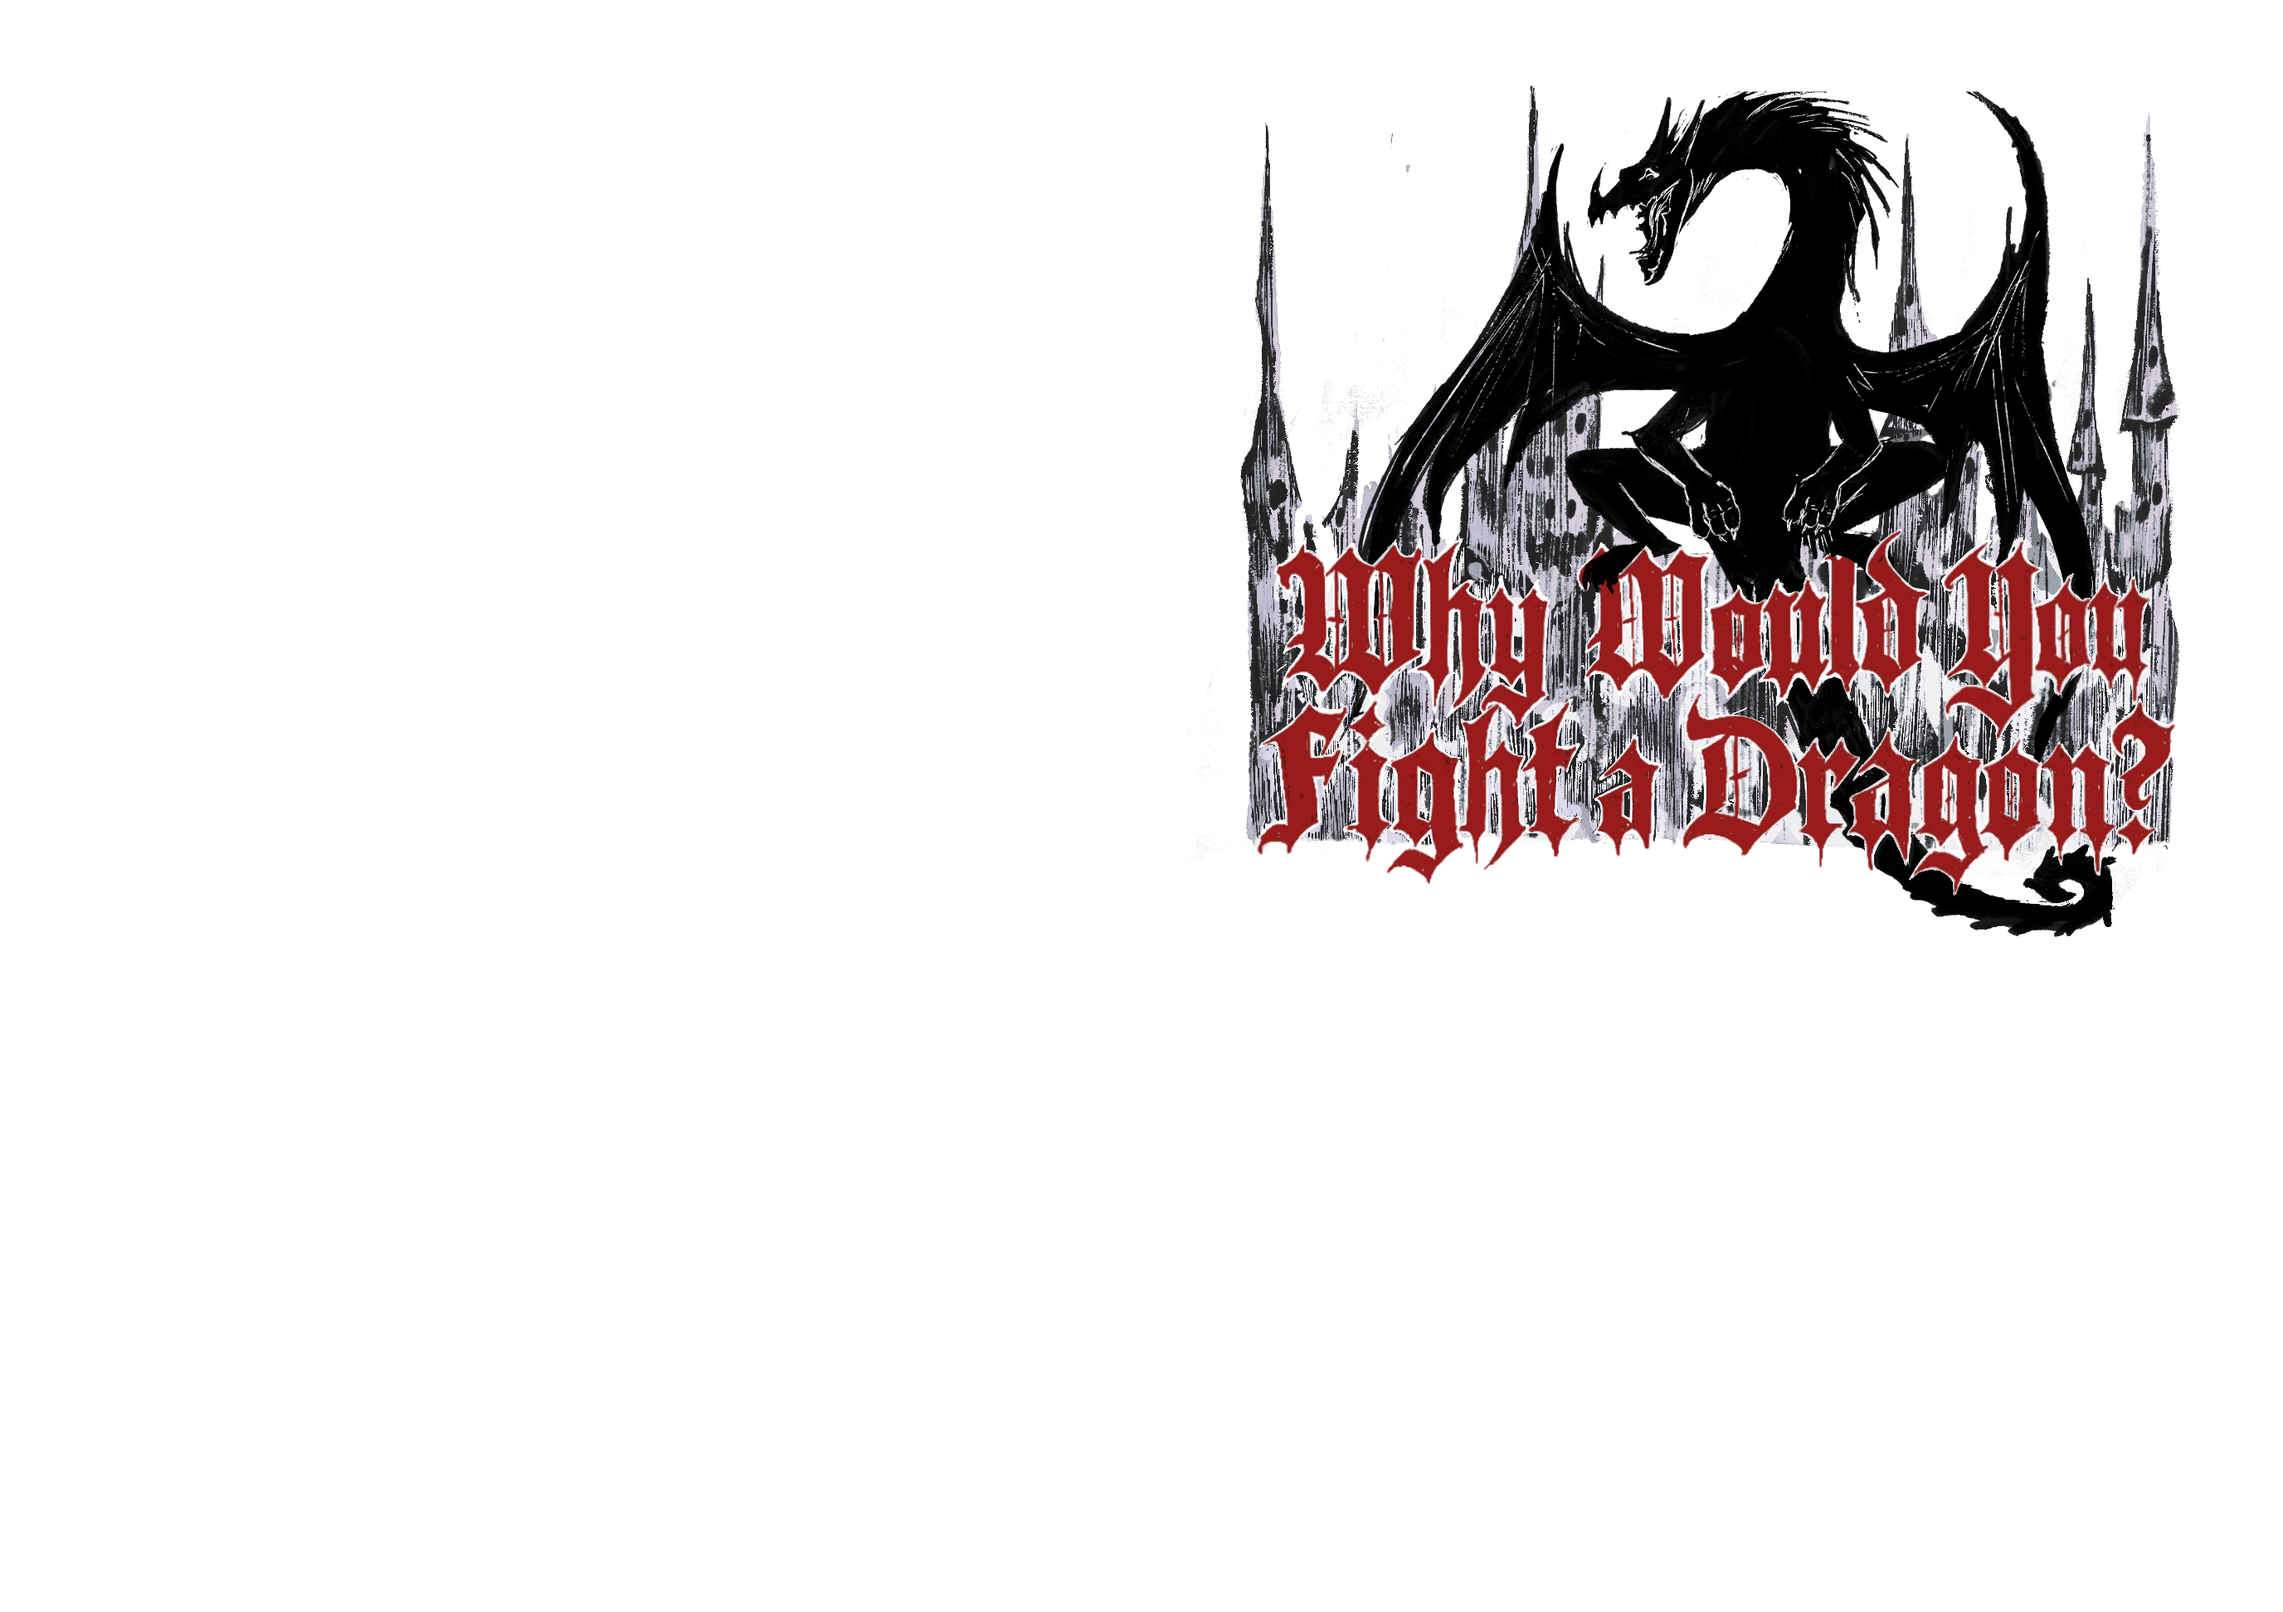
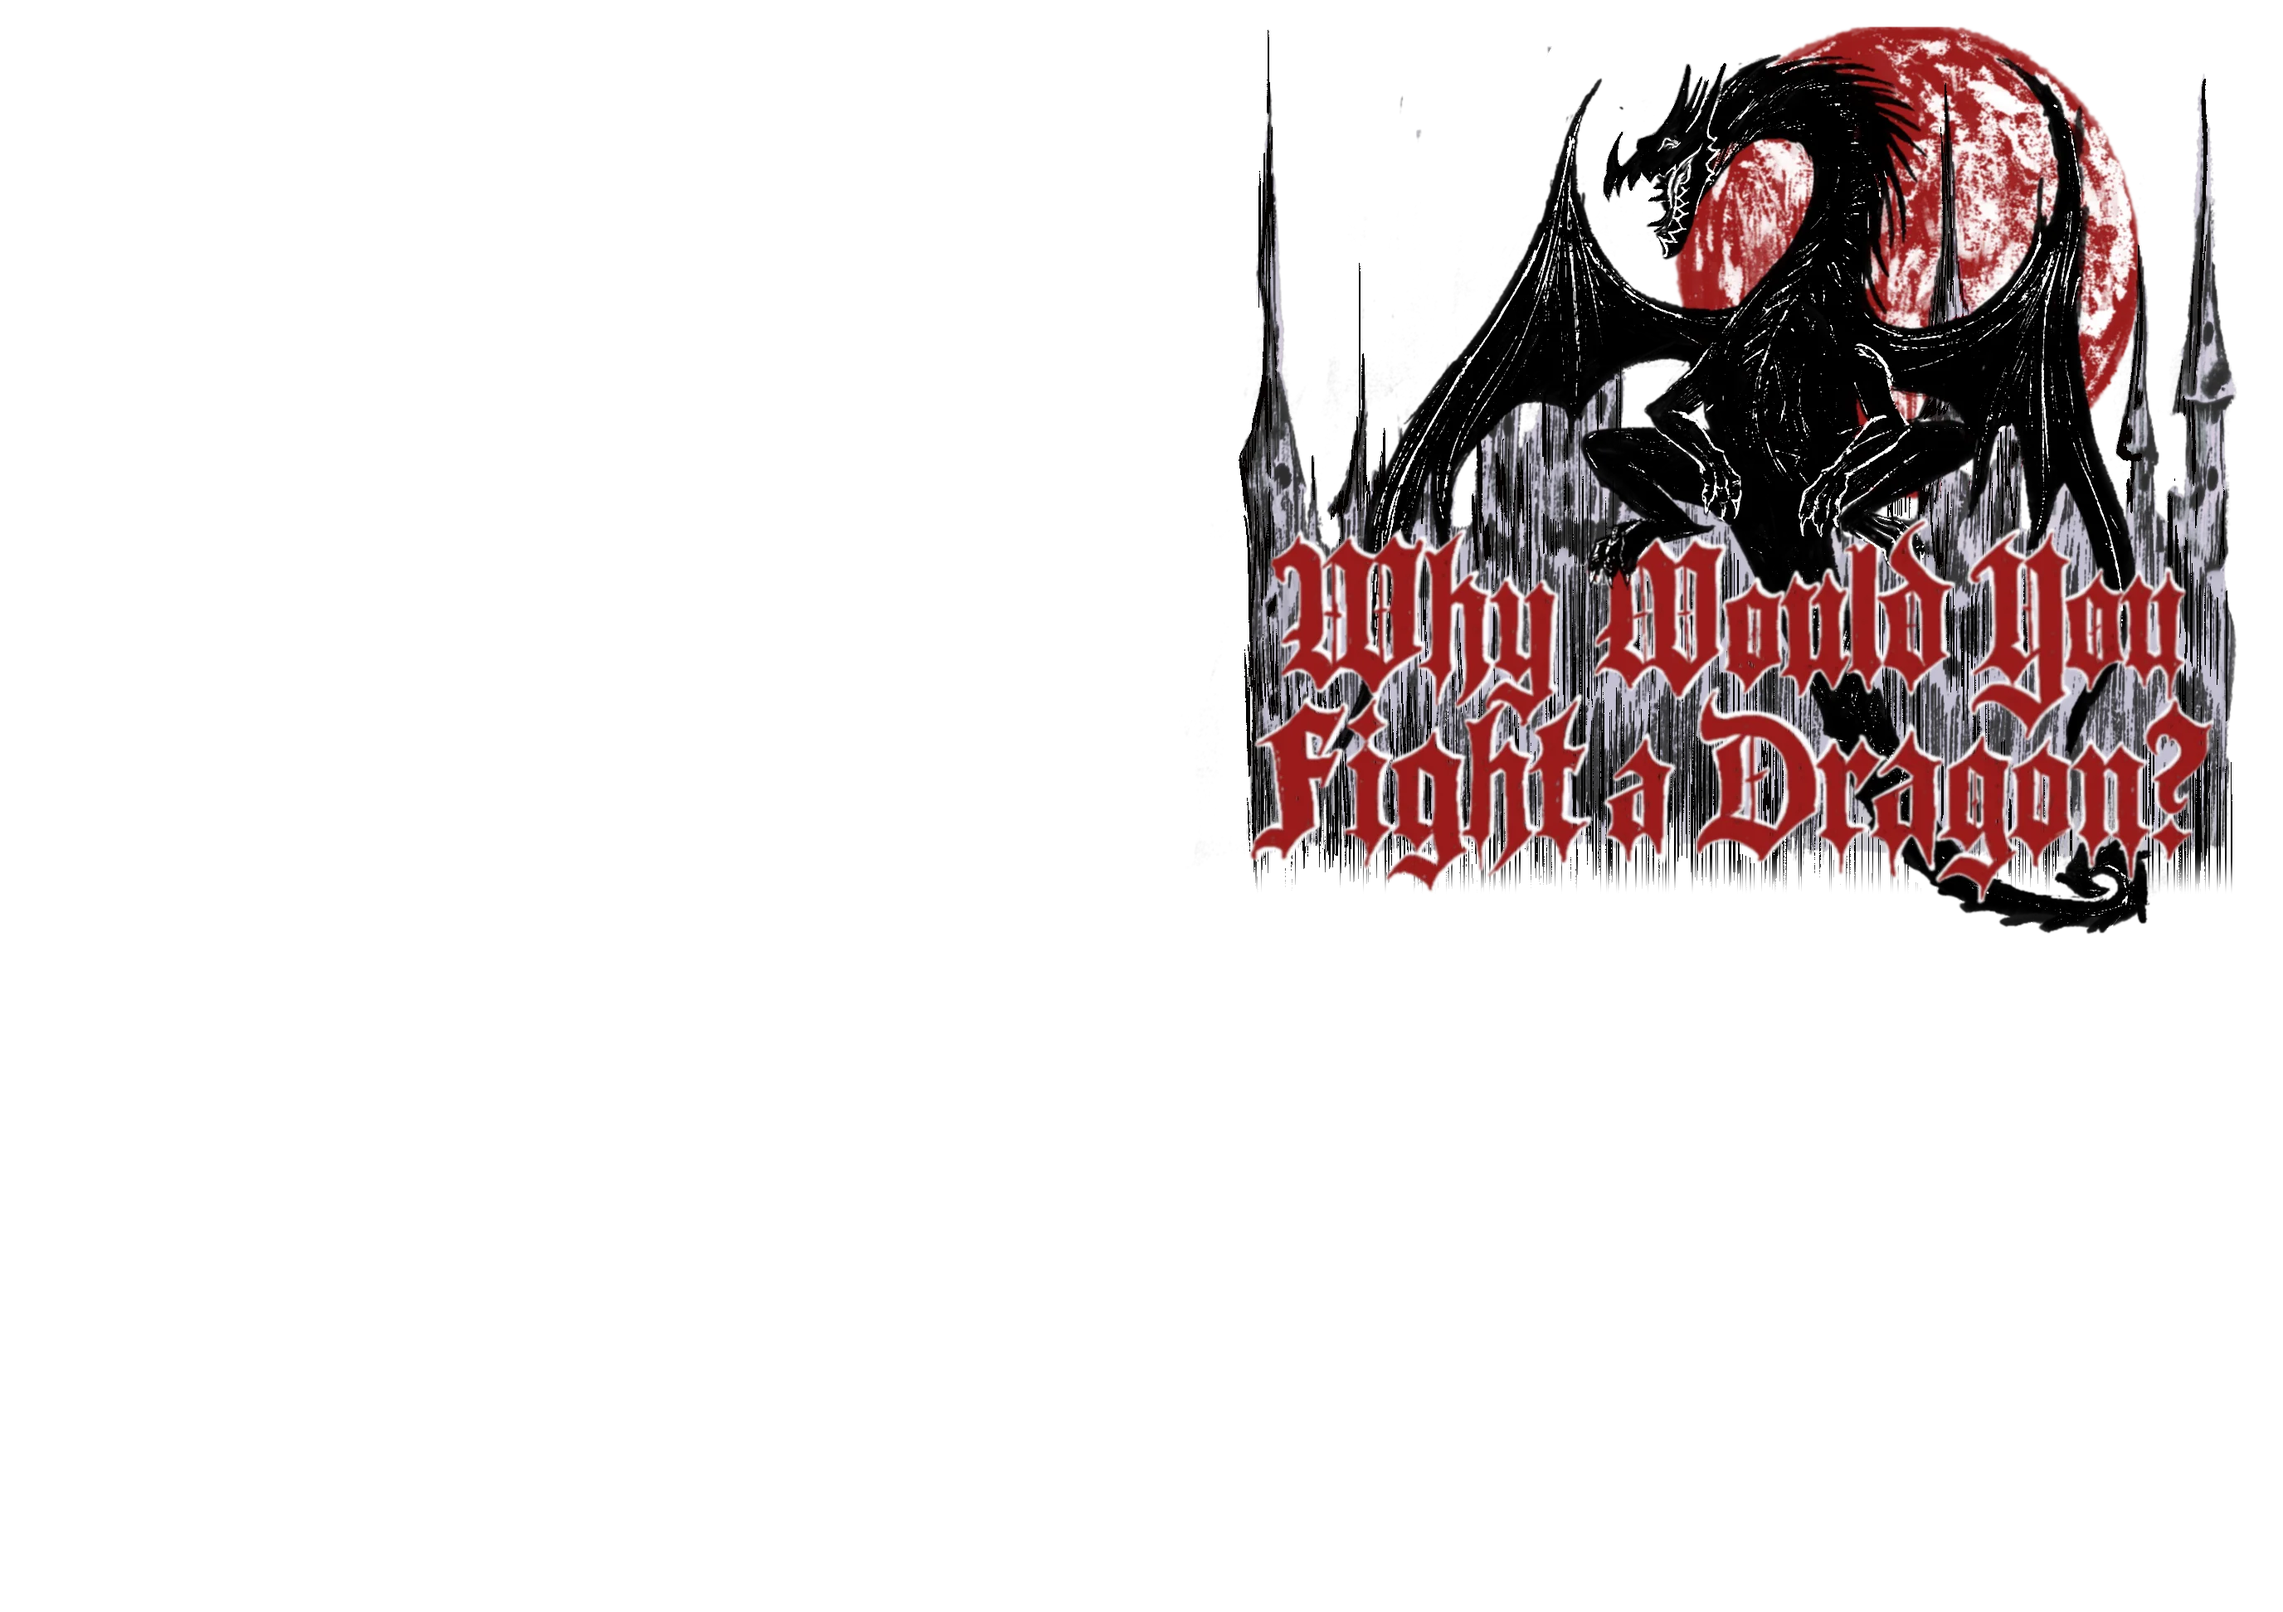
Update Why Dragon cover art with Rouzeris's new illustration (#87)
* Add itch.io page plan for Why Dragon

* Set community copies to 73 with contact fallback

* Fill community copies contact details

* Update itch plan with applied pricing, rewards, theme

* Plan itch hero; record dark theme and green links

* Fix reward wording in plan

* Record darker itch button color in plan

* Record itch link and button colors in plan

* Record itch button color in plan

* Record cover red buttons in plan

* Update Why Dragon cover art with new illustration

* Record itch banner in plan

* Record full-width itch hero in plan

* Pin Bun in CI to 1.3.14

Changed region(s): [[0.5312, 0.0, 1.0, 0.5864]]

diff --git a/src/pages/books/why-dragon/.agents/PLAN.md b/src/pages/books/why-dragon/.agents/PLAN.md
@@ -1,0 +1,83 @@
+# itch.io page plan — Why Would You Fight a Dragon?
+
+Page: https://hasparus.itch.io/why-dragon
+
+## Now
+
+- Default theme: black bg, plain text title, default red button.
+- One cover image in the screenshot column; column empty below it.
+- Name-your-own-price.
+- No devlog, no community, no pull quotes.
+
+## References
+
+| Page | Steal |
+|---|---|
+| [2400](https://jasontocci.itch.io/2400) | Banner with title baked in, hide text title. Tiled paper texture bg. Full-height screenshot column (every module cover). $6+ with **community copies** reward box. Devlog + community. |
+| [Mausritter](https://losing-games.itch.io/mausritter) | Closest match: blackletter logo as banner on plain bg. Bullet list of features with bold lead-ins. Screenshots = photos of the printed book, spreads, filled character sheet. |
+| [Wanderhome](https://possumcreekgames.itch.io/wanderhome) | Ornamental logo banner, one-color palette (cream bg, green text/links/button). Awards + pull quote from a known designer at the top. |
+| [FIST](https://claymorerpgs.itch.io/fist) | Dark theme done right: stark b/w banner art, monochrome white button, italic blockquote intro setting the mood. Video in screenshot column. |
+
+Anti-references: [Honey Heist](https://gshowitt.itch.io/honey-heist), [Cairn](https://yochaigal.itch.io/cairn), [Lancer](https://massif-press.itch.io/corebook-pdf) — default layout with a bg color swap; reads generic even for famous games.
+
+## Plan
+
+### 1. Pricing
+
+- [x] Edit game → Pricing → Paid, **$5.00**, "Let people pay more".
+- [x] More → Rewards → "Community Copies", $0, quantity **47**.
+- [x] Reward text: "Not sure you can afford it? Grab a free copy. All gone? Email me at piotr@zagrajmy.net or ping me on Discord (@hasparus) and I'll send you one."
+- [ ] Before publishing: verify piotr@zagrajmy.net receives mail from an outside address (Gmail) and replies don't land in spam. Domain has OVH MX + `p=none` DMARC but **no SPF record** — add `v=spf1 include:mx.ovh.com ~all` if replies go from OVH.
+
+### 2. Theme
+
+- [x] BG + BG2 `#300703`, text `#F2EBE7`, IM Fell English.
+- [x] Links `#0fcea0`. Buttons `#B3232B` cover red.
+
+Fonts: blackletter-ish header only if itch list has one; body serif (current is fine).
+
+### 3. Hero
+
+itch caps the banner at the 960px column, so the full-width hero is two layers:
+
+- [x] Banner 1920×1200 (shown at 960×600): moon, spires, dragon perched on the title, Rouzeris's original layout.
+- [x] Background 2560×600, no-repeat, centred: spires tiled (mirrored) out to both edges, wash strengthened. BG2 alpha 0 so it shows behind the column.
+- [ ] Cover image: pick C1/C2/C3, upload via Edit game → Cover image (630×500).
+- [ ] Screenshot column still shows the old cover art; replace with spreads/character sheet.
+
+### 4. Screenshot column
+
+Fill it top to bottom:
+
+- [ ] Cover
+- [ ] 2–3 interior spreads (from `why-dragon-1-0.pdf`)
+- [ ] Character sheet
+- [ ] Pyre art (`pyre-1..4.webp`), `dragon.webp`, `dragonsword.png`
+- [ ] Hero's Journey diagram
+- [ ] Later: photo of a printed copy / table at play
+
+### 5. Copy
+
+Top to bottom:
+
+1. Tagline (keep): *a roleplaying game of violence, change, and sacrifice — for up to 5 people, in 2–4 hours*
+2. Three hero lines (keep: Beowulf / Fáfnir / Saint George).
+3. Pull quote from a playtester or reviewer (Wanderhome-style).
+4. **What's inside** — bullets with bold lead-ins (Mausritter-style):
+   - **Pyre** — …Stoke/Burn payoff
+   - **Hunters** — …
+   - **The Dragon** — …
+   - **One-shot** — 2–4 hours, 2–5 players
+5. "Not sure you can afford it? Grab a community copy below. The full text is also free to read at lol.haspar.us/books/why-dragon."
+6. Credits + licence (keep, move below the fold into "More information" if it crowds).
+
+### 6. Later
+
+- [ ] Devlog post per version (1.0 now, changelog from the web page).
+- [ ] Enable community comments.
+- [ ] Submit to relevant jams/bundles (visibility; badges show in sidebar).
+
+## Open questions
+
+- Web version stays fully free?
+- Pull quote — who?
